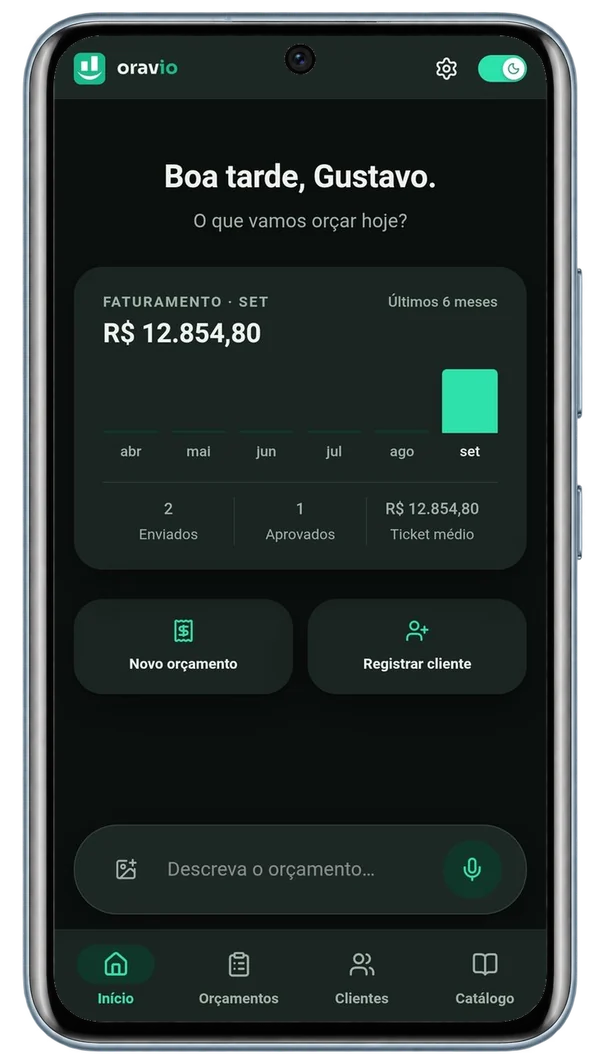
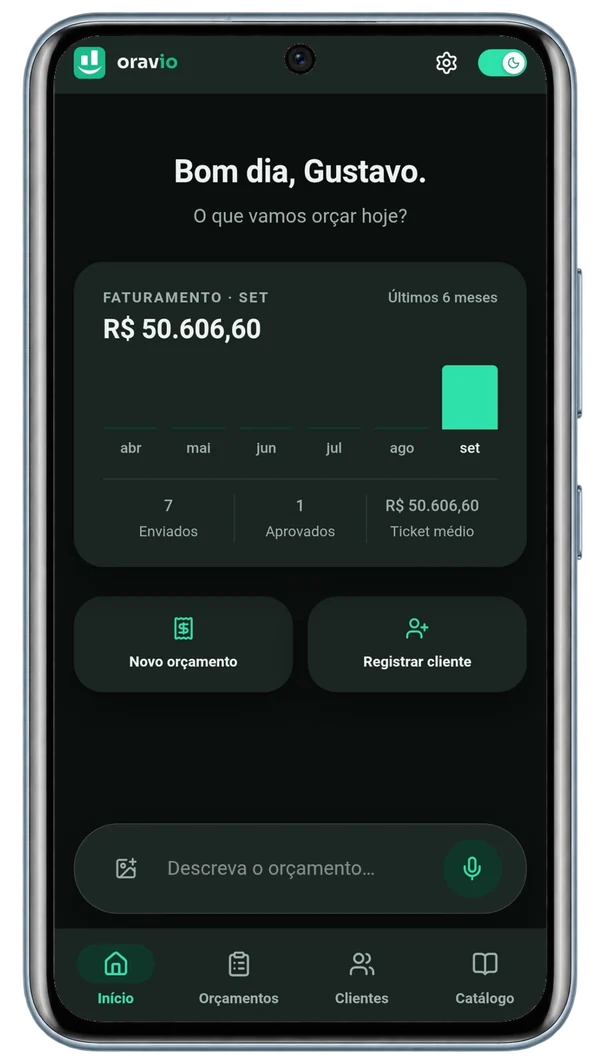
Tela inicial nova no heroi e no passo 1, cortes recalculados
O print novo sai da conta de demonstracao (7 enviados, R$ 50.606,60 no mes)
e chega sem a faixa verde do navegador. Como ele tem outra proporcao
(1005x2000 contra 600x1202), os dois cortes foram medidos de novo com previa:

- heroi: aspect-ratio 600/469, para entre a fileira de meses e o divisor,
  antes da linha "Enviados - Aprovados";
- passo 1: janela 600/140 em 89,1%, pega o campo de voz inteiro sem encostar
  na barra de navegacao.

diff --git a/estilo.css b/estilo.css
@@ -93,11 +93,11 @@
      sombra é `drop-shadow` — ela segue o contorno do celular, não o retângulo. */
   .phone{position:relative;z-index:1;width:min(300px,76vw);filter:drop-shadow(0 30px 50px rgba(0,0,0,.55))}
 
-  /* O corte de baixo é o convite pra rolar. A proporção 600/481 corta a imagem
+  /* O corte de baixo é o convite pra rolar. A proporção 600/469 corta a imagem
      logo abaixo da fileira de meses do faturamento, antes da linha
      "Enviados · Aprovados". Por ser `aspect-ratio`, o corte acompanha a
      largura do aparelho em qualquer tela — não precisa recalcular. */
-  .hero-peek{position:relative;z-index:1;width:min(300px,76vw);aspect-ratio:600/481;margin:clamp(40px,5vw,60px) auto 0;overflow:hidden}
+  .hero-peek{position:relative;z-index:1;width:min(300px,76vw);aspect-ratio:600/469;margin:clamp(40px,5vw,60px) auto 0;overflow:hidden}
   .hero-peek .phone{width:100%;filter:none}
 
   /* Bandas */
@@ -131,11 +131,11 @@
 
   /* Recorte de tela (passo 1) — mostra só a faixa do campo de voz.
      `object-fit:cover` faz a imagem cobrir a moldura pela largura; o
-     `object-position` vertical é que escolhe QUAL faixa dos 1202px aparece.
-     89% cai logo acima da barra de navegação: pega o campo inteiro e não
+     `object-position` vertical é que escolhe QUAL faixa dos 1194px aparece.
+     89,1% cai logo acima da barra de navegação: pega o campo inteiro e não
      deixa entrar meia fileira de ícones cortada no rodapé. */
   .shot-detail{position:relative;z-index:1;width:100%;max-width:400px;background:#0a0f0c;border:1px solid var(--line);border-radius:var(--radius-lg);overflow:hidden;box-shadow:var(--shadow-card)}
-  .shot-detail img{width:100%;aspect-ratio:600/170;object-fit:cover;object-position:0 89%}
+  .shot-detail img{width:100%;aspect-ratio:600/140;object-fit:cover;object-position:0 89.1%}
   .shot-detail figcaption{padding:13px 16px;font-size:12.5px;color:var(--muted);text-align:center;border-top:1px solid var(--line)}
 
   /* Folha do PDF (passo 3). O branco do papel sobre o fundo escuro já é

diff --git a/index.html b/index.html
@@ -94,7 +94,7 @@
              dois blocos seguidos parecia erro, e o microfone — que é o assunto
              do passo — some quando a tela aparece por completo. -->
         <figure class="shot-detail">
-          <img src="tela-inicio.jpg" width="600" height="1202" loading="lazy" decoding="async" alt="O campo Descreva o orçamento, com o botão de microfone ao lado">
+          <img src="tela-inicio.jpg" width="600" height="1194" loading="lazy" decoding="async" alt="O campo Descreva o orçamento, com o botão de microfone ao lado">
           <figcaption>Detalhe da tela inicial — é daqui que o orçamento começa.</figcaption>
         </figure>
       </div>
